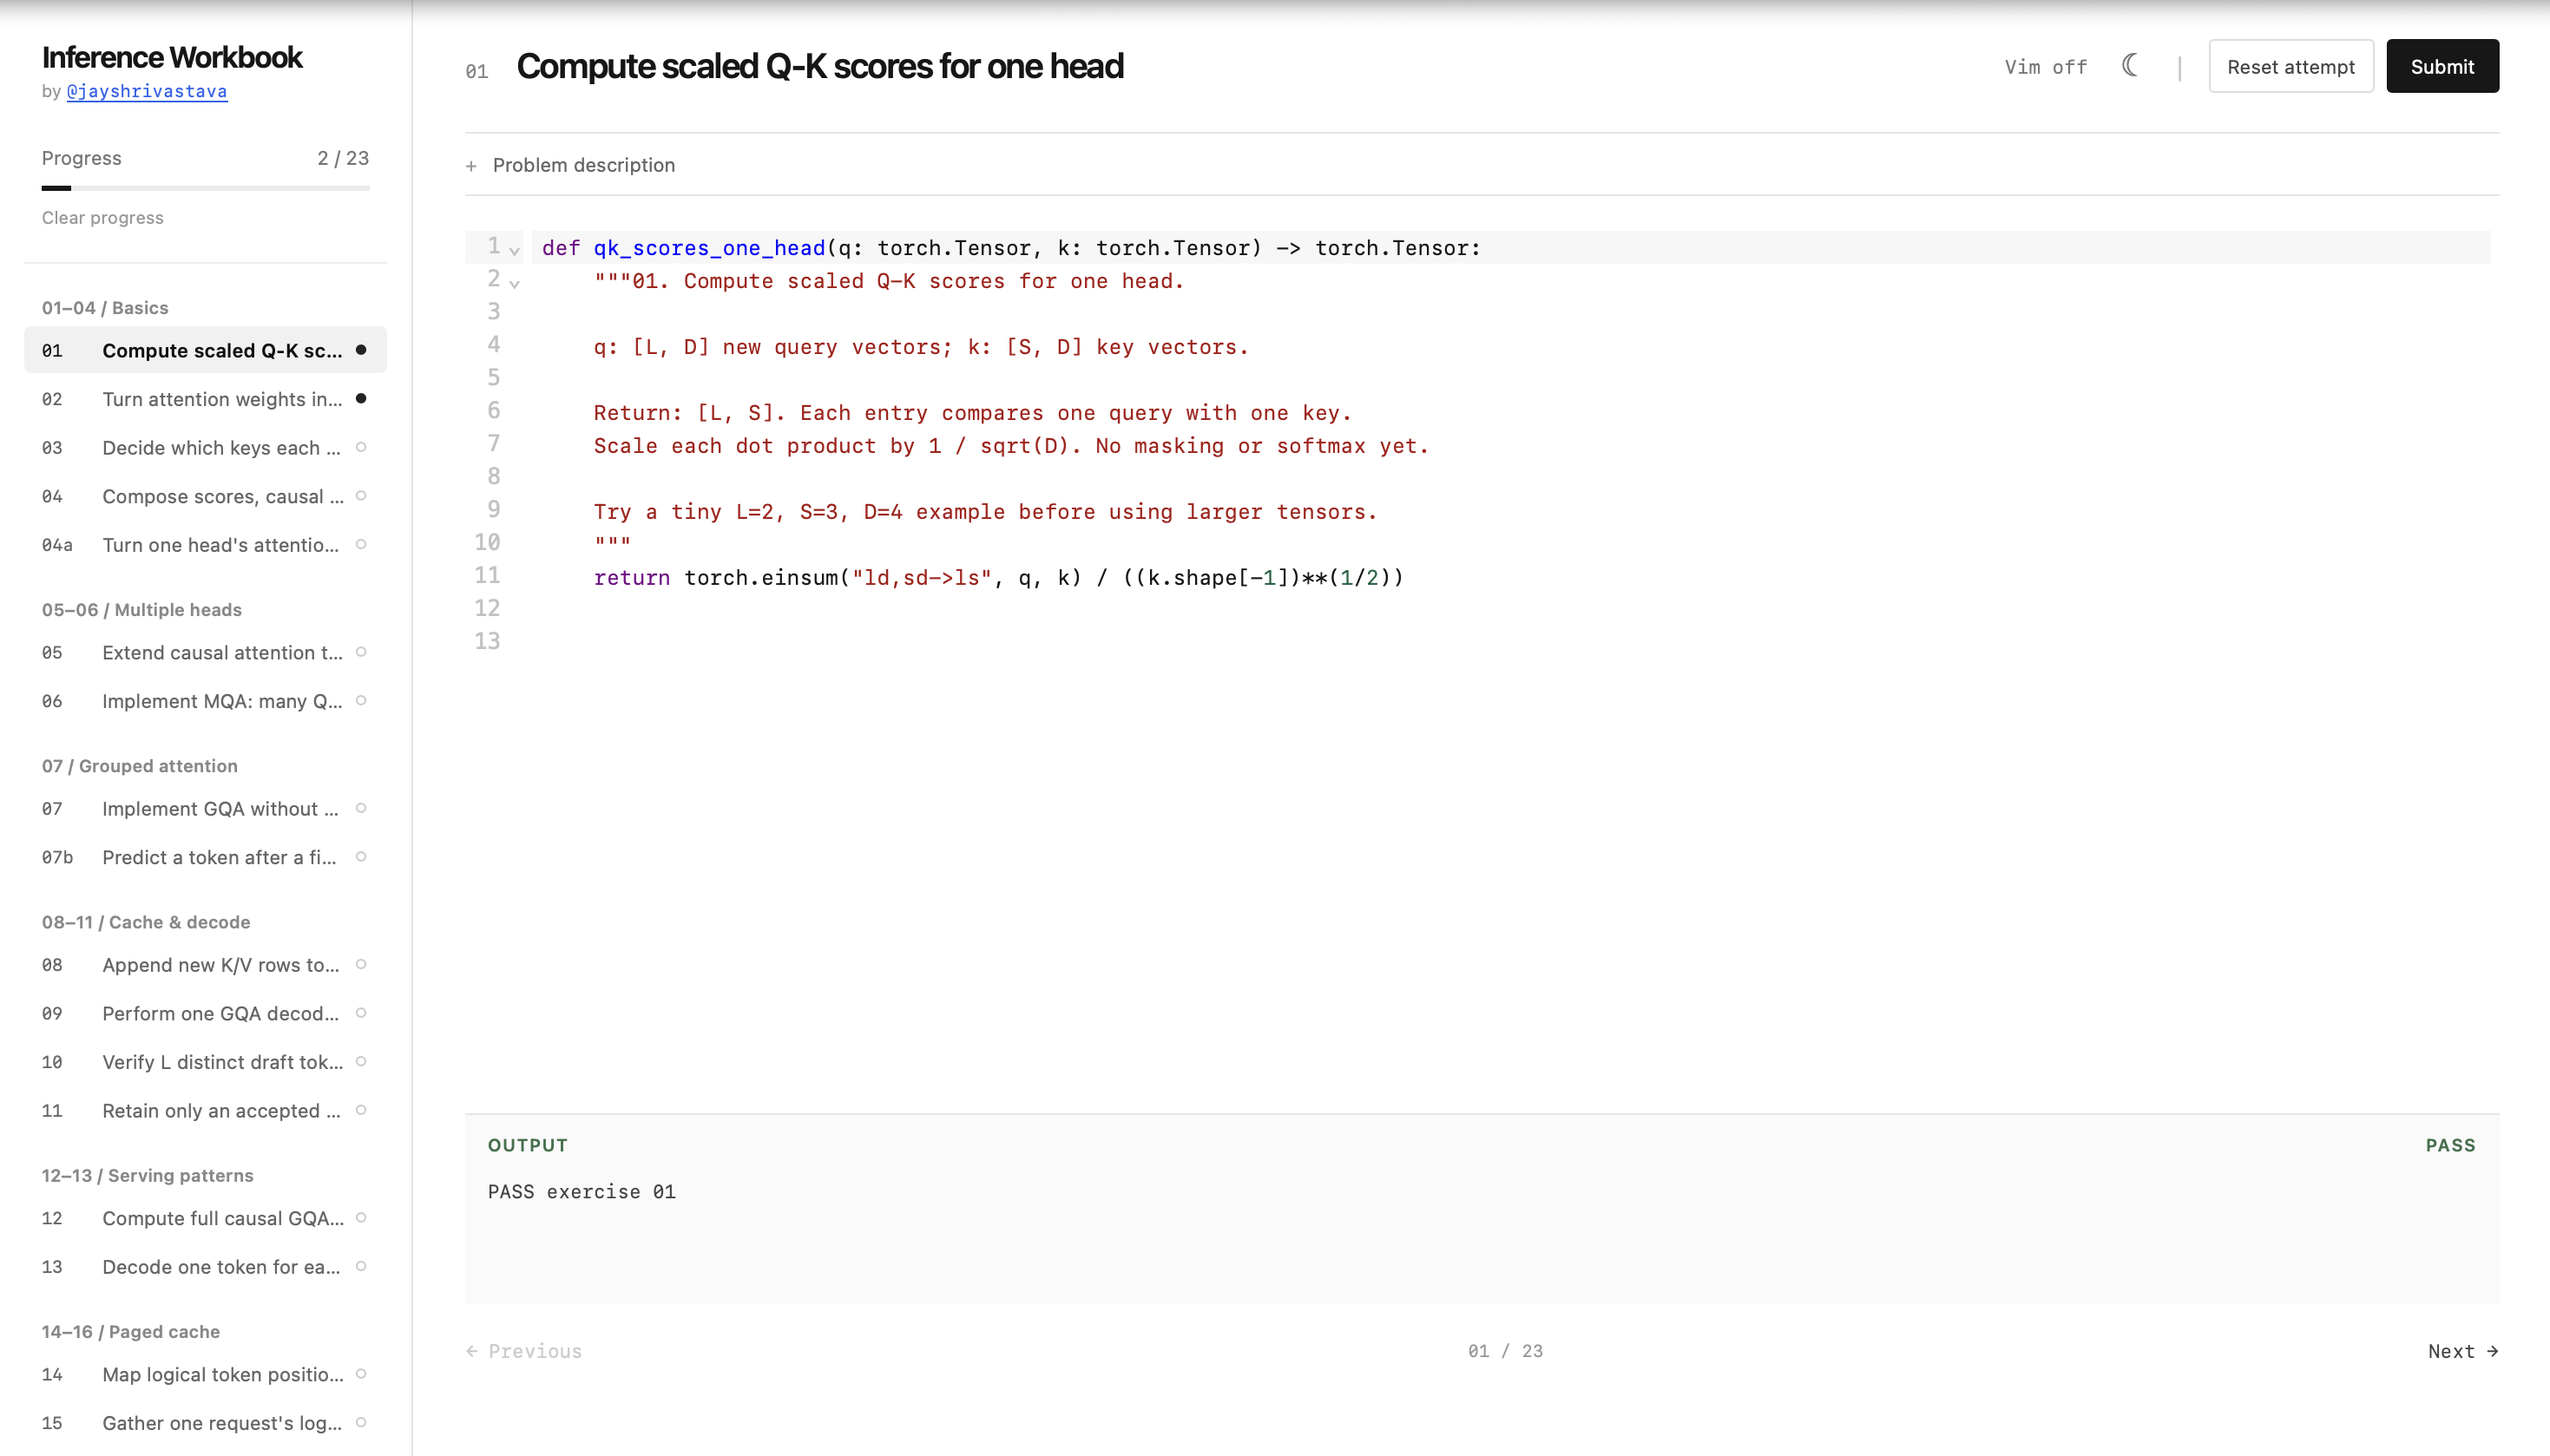
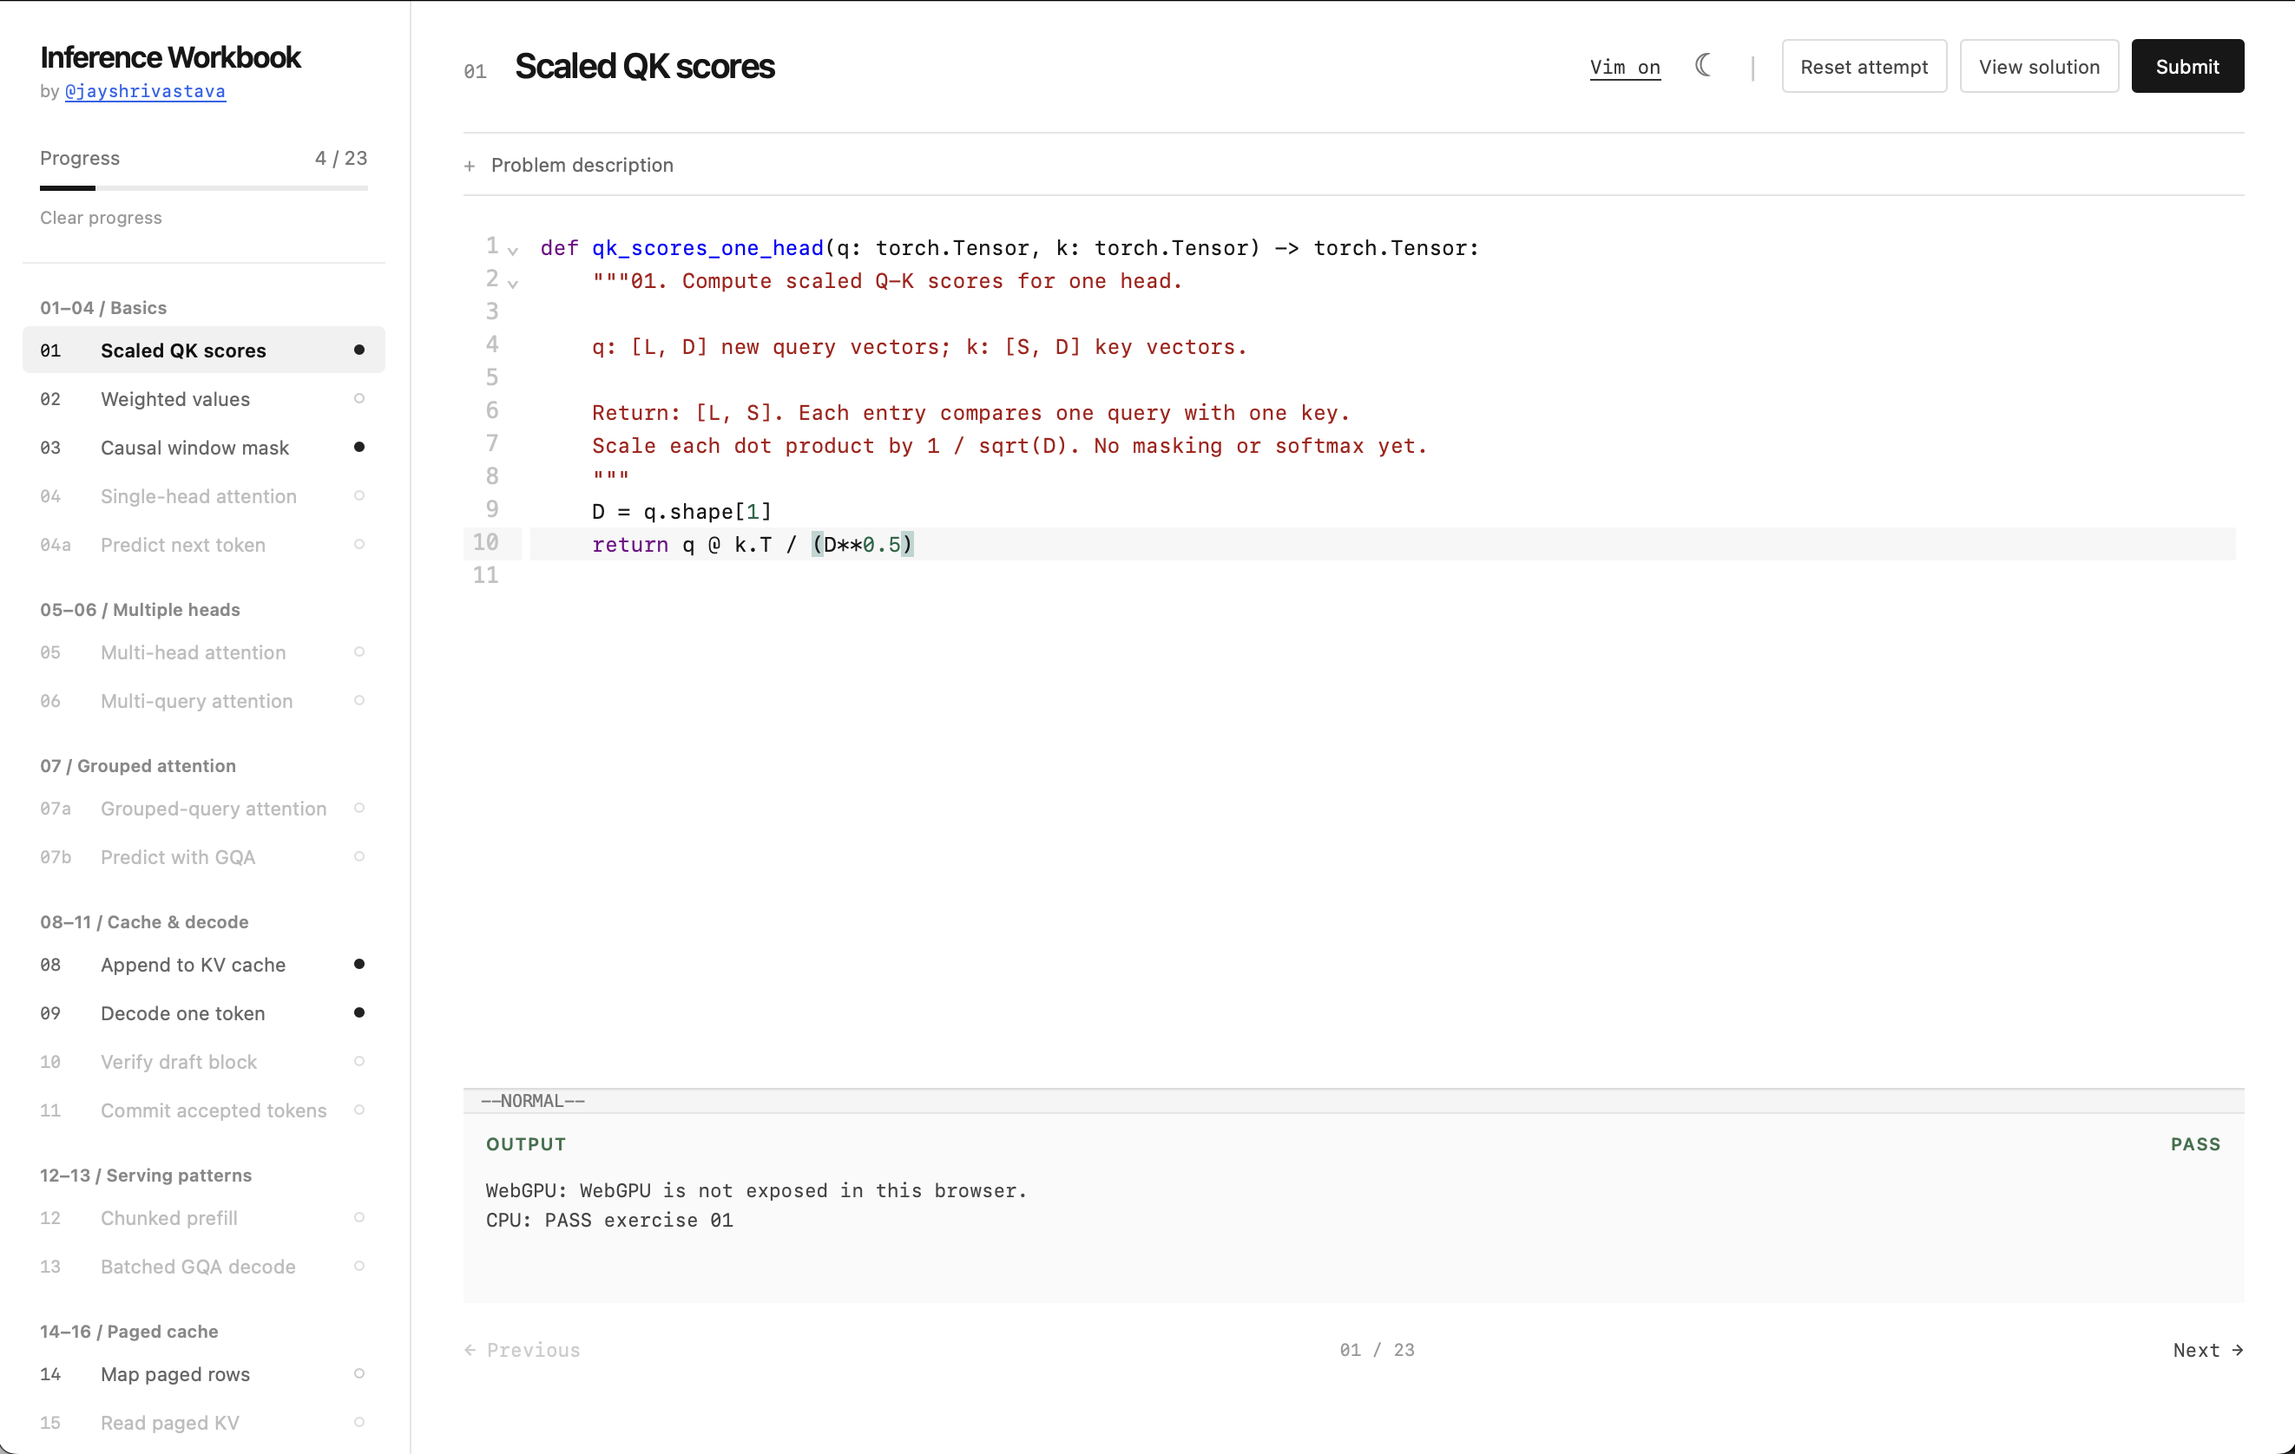
Fix Vim selection visibility and update author link

diff --git a/style.css b/style.css
@@ -76,3 +76,4 @@ h1{font-size:20px;font-weight:600;letter-spacing:-.035em;line-height:1.2;margin:
 [data-theme=dark] .output{background:#202020}[data-theme=dark] .output-heading{color:#aaa}[data-theme=dark] .output.pass .output-heading{color:#83ca95}[data-theme=dark] .output.fail .output-heading{color:#ef9187}[data-theme=dark] .output.running .output-heading{color:#e3ce78}
 [data-theme=dark] .page-nav button{color:#ddd}[data-theme=dark] .page-nav button:disabled{color:#666}
 @media(max-width:620px){[data-theme=dark] .sidebar{border-color:#353535}[data-theme=dark] .exercise-link{border-color:#444}}
+.cm-editor:has(.cm-selectionBackground) .cm-activeLine{background:transparent!important}

diff --git a/index.html b/index.html
@@ -19,7 +19,7 @@
     <div class="layout">
       <aside class="sidebar">
         <div class="site-title">Inference Workbook</div>
-        <div class="site-author">by <a href="https://github.com/jayshrivastava" target="_blank" rel="noopener noreferrer">@jayshrivastava</a></div>
+        <div class="site-author">by <a href="https://jayantshrivastava.com/" target="_blank" rel="noopener noreferrer">@jayshrivastava</a></div>
         <div class="progress">
           <div class="progress-label"><span>Progress</span><span id="progress-caption">0 / 0</span></div>
           <div class="progress-track"><div id="progress-fill"></div></div>
